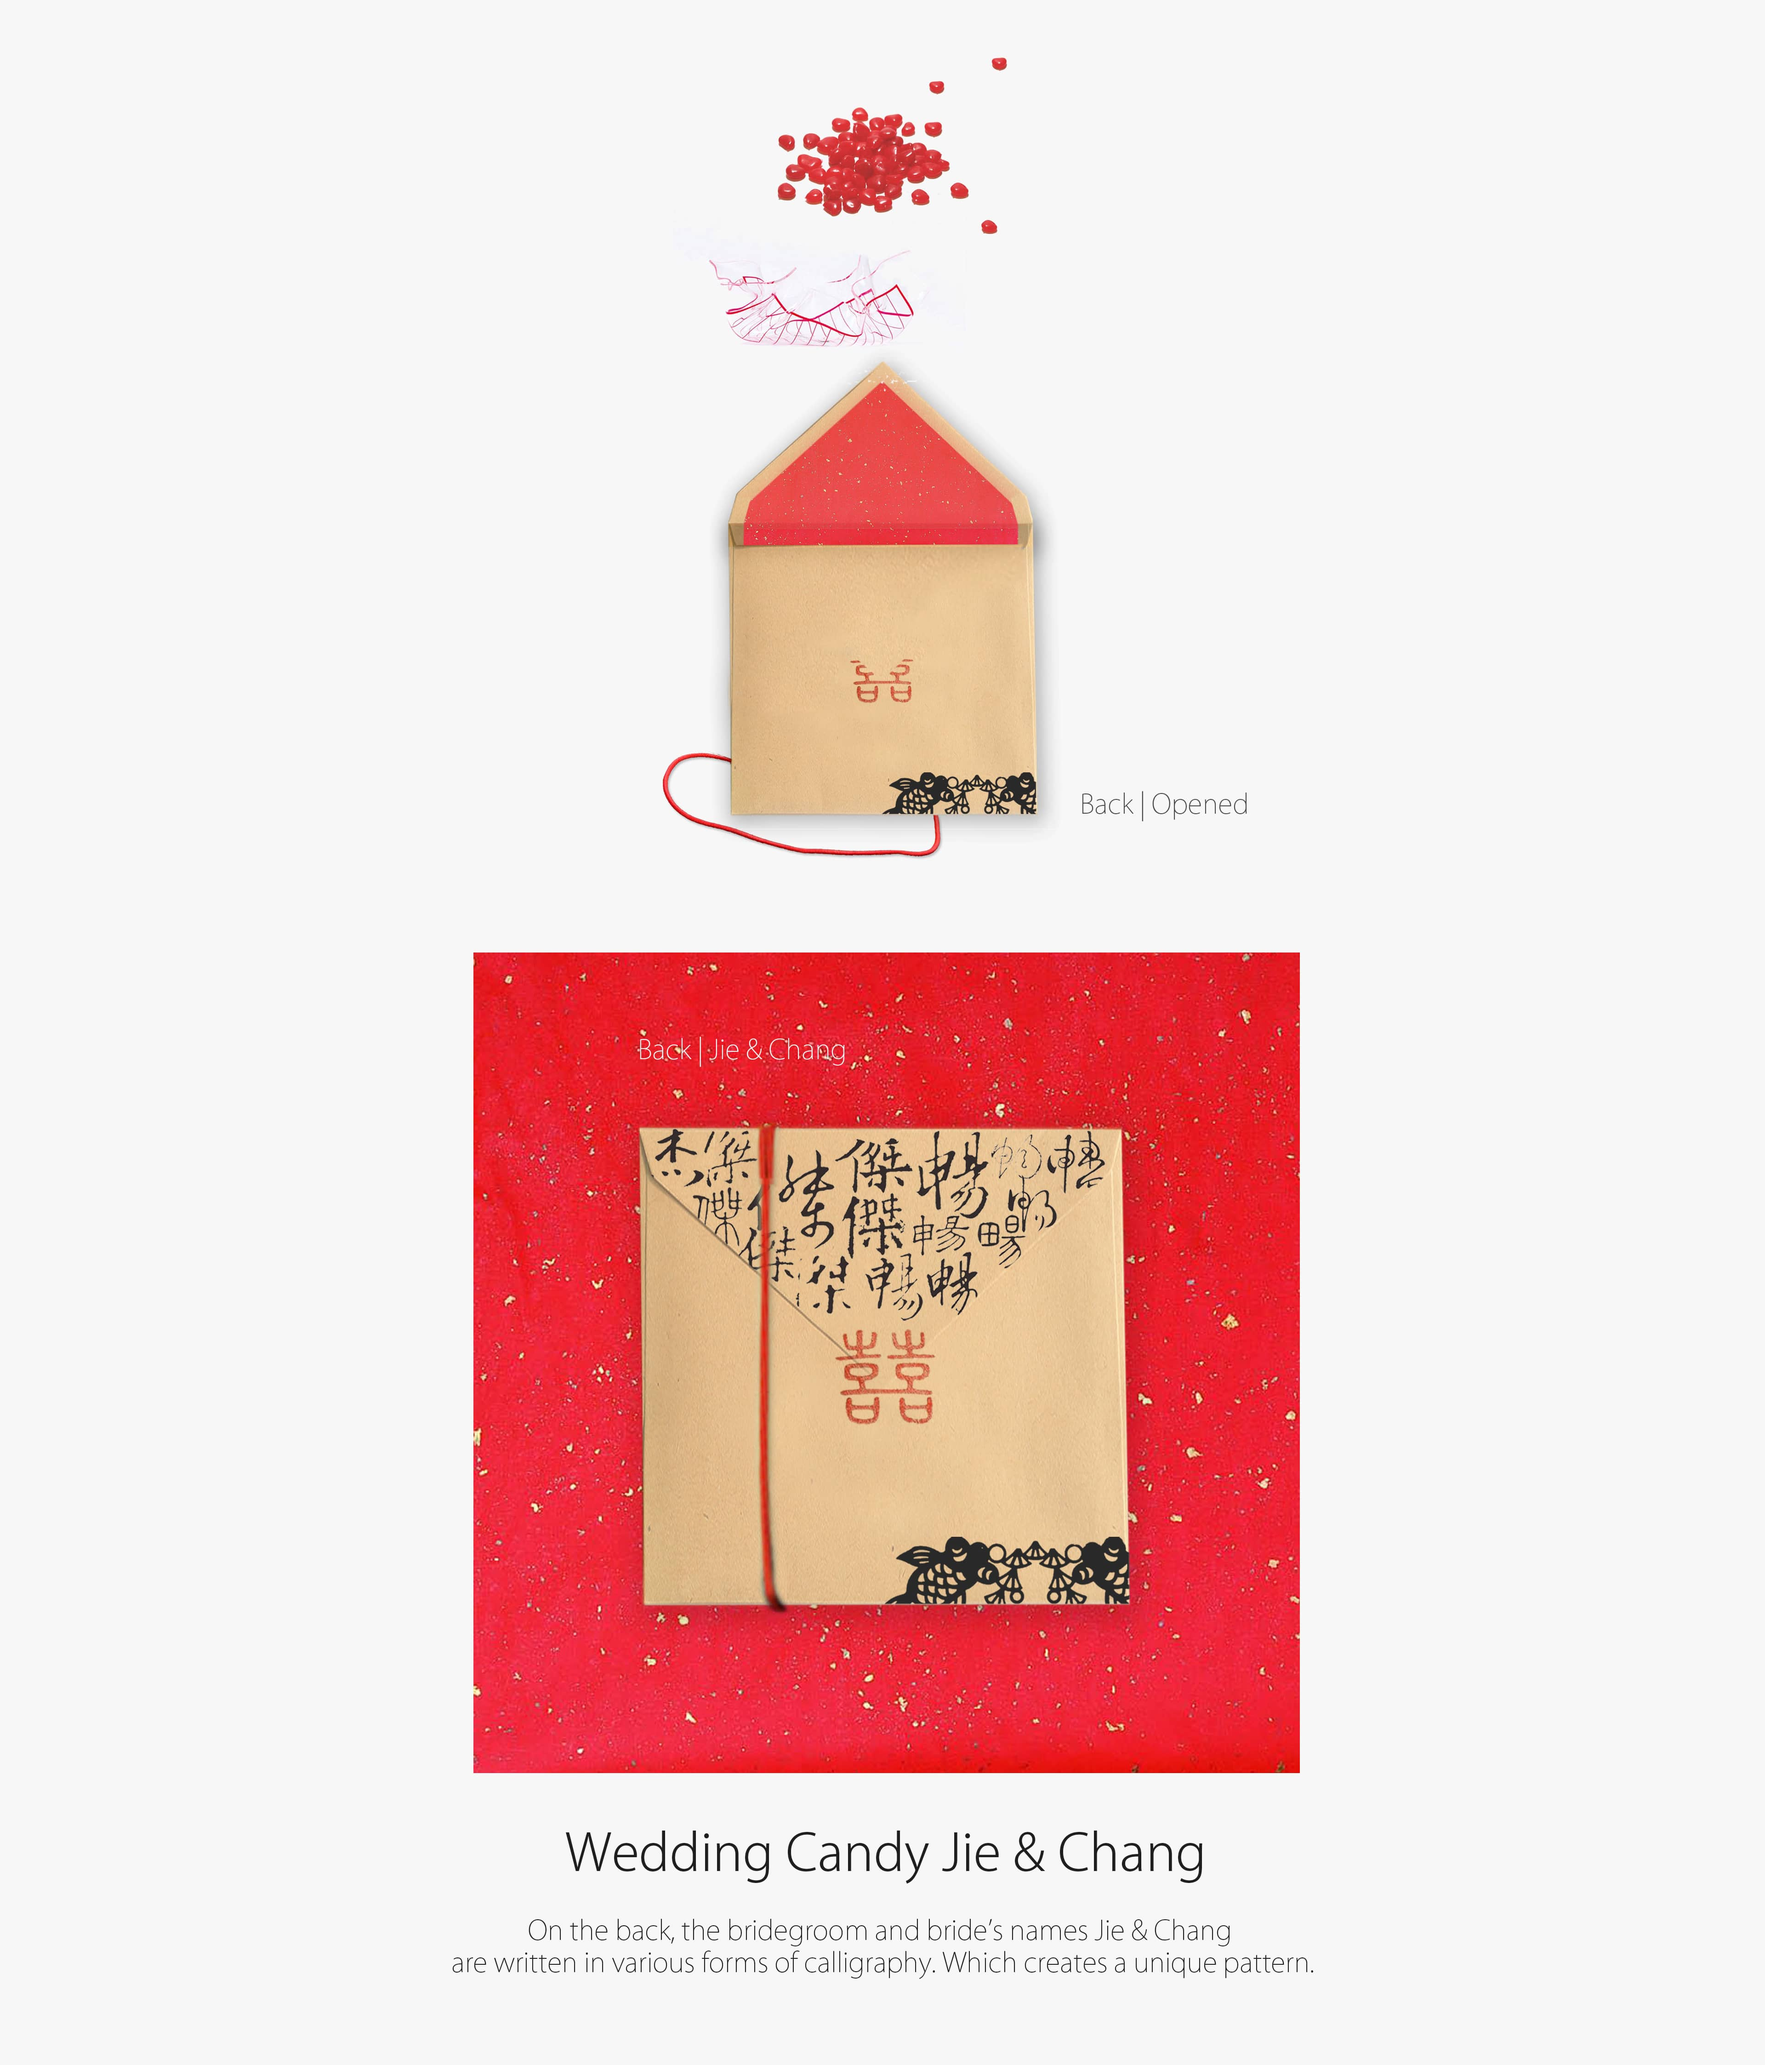
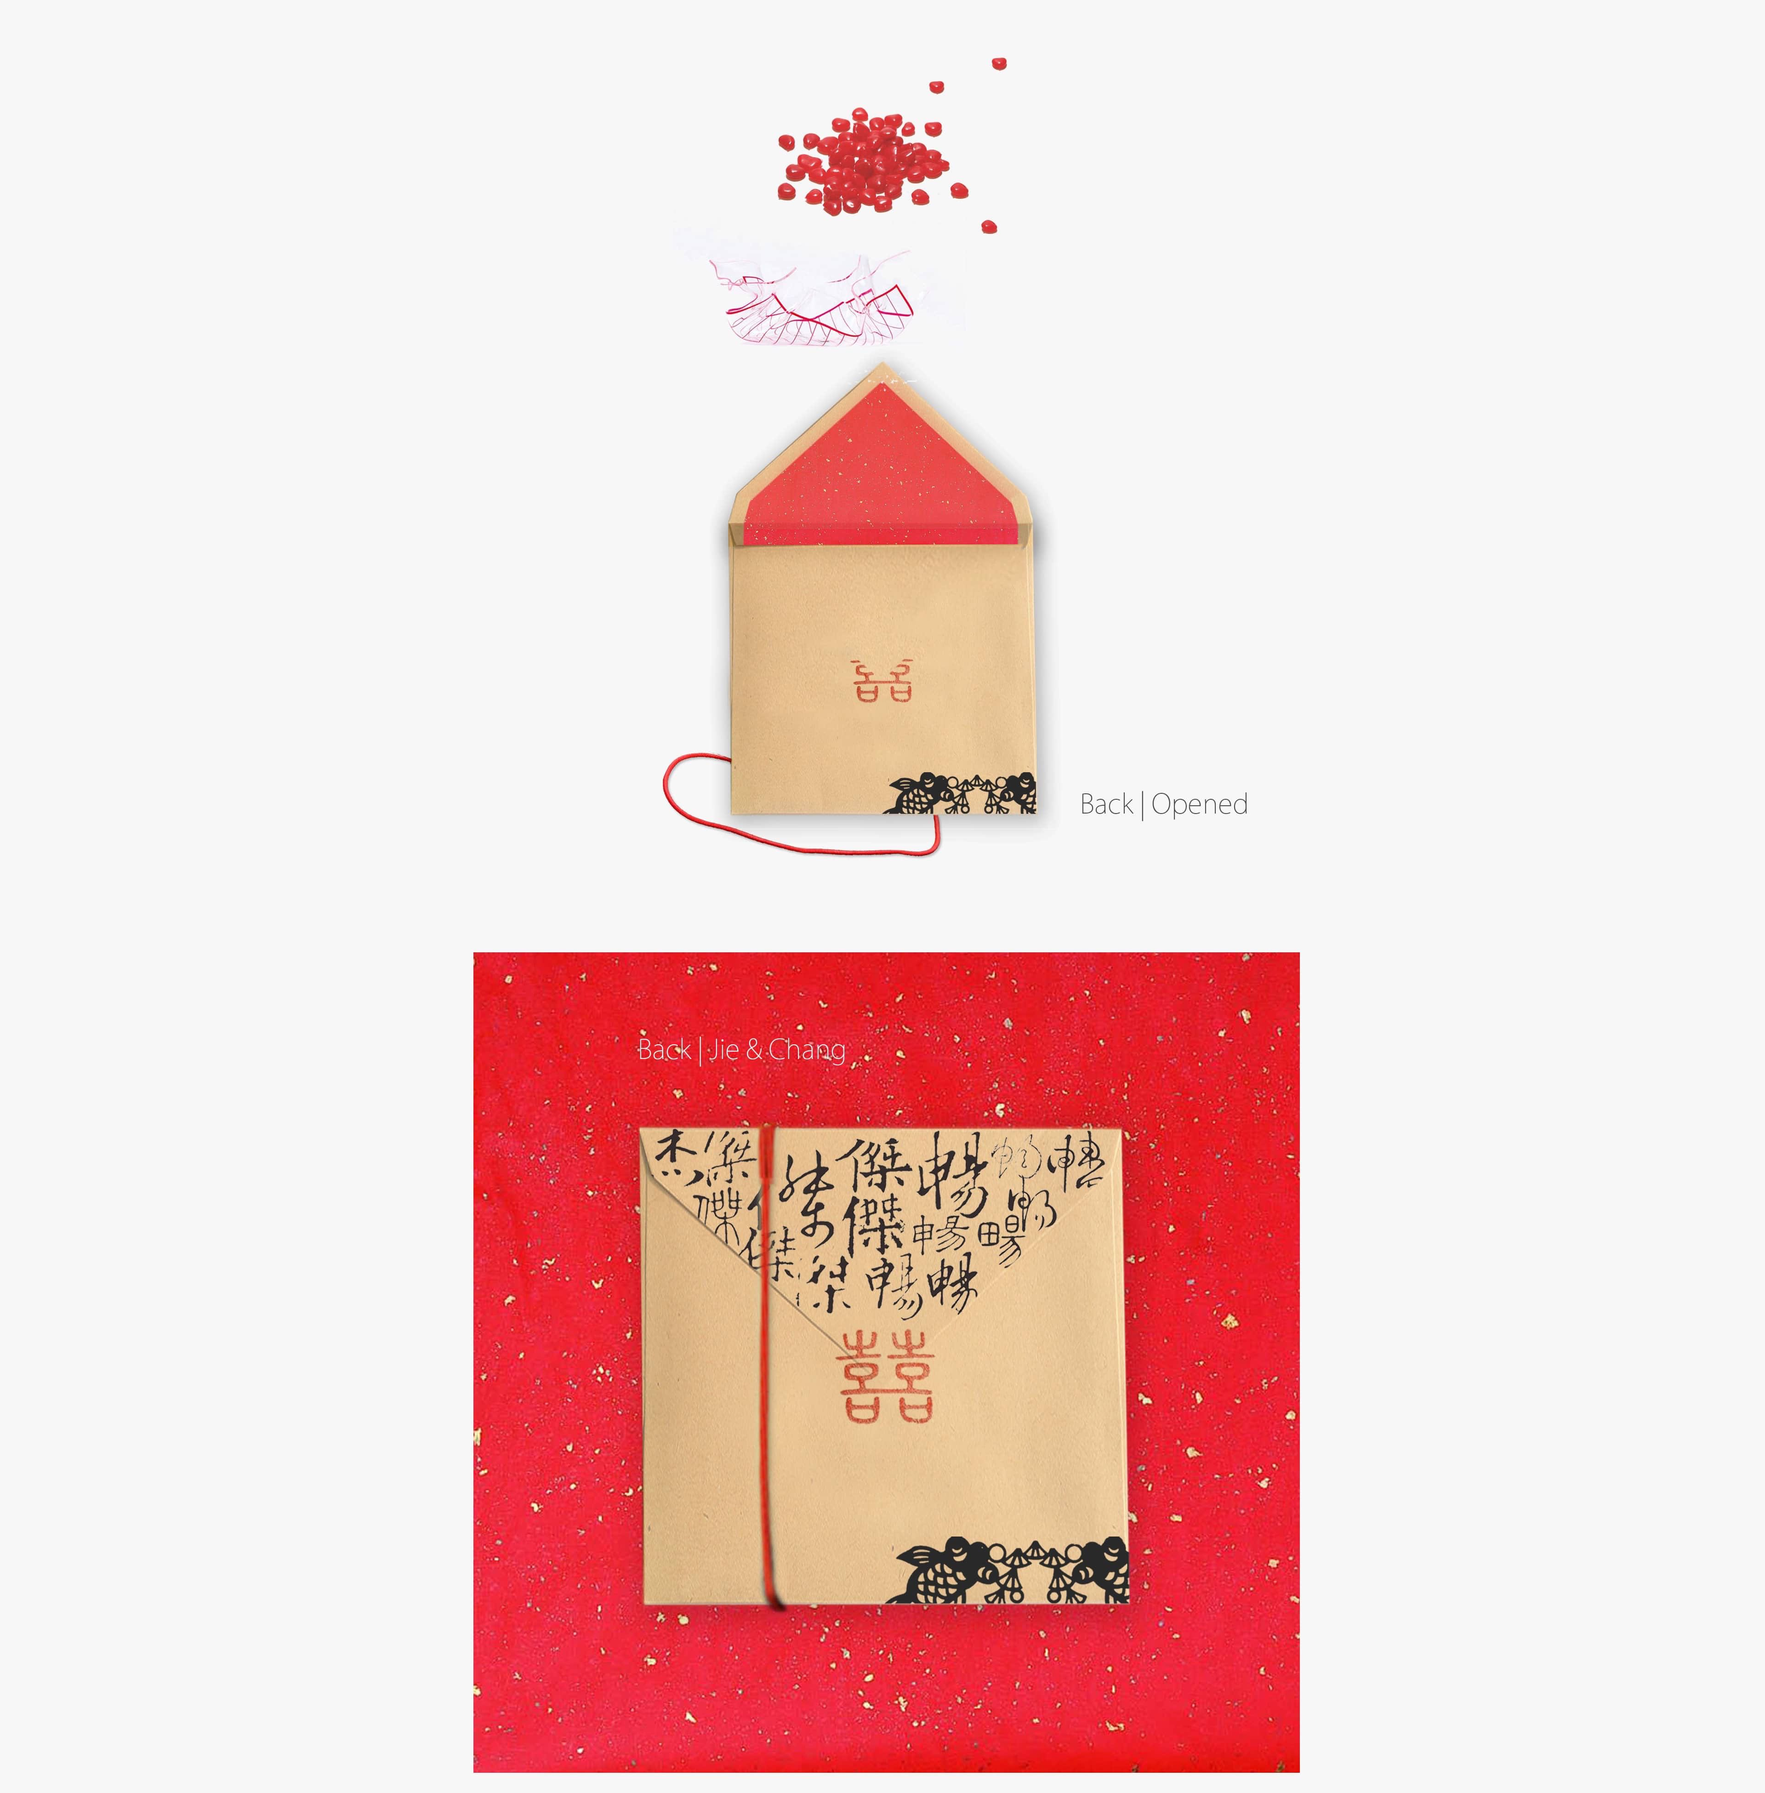
Added text for product design

Changed region(s): [[0.25, 0.3722, 0.75, 0.9926], [0.4062, 0.031, 0.5938, 0.3412]]

diff --git a/product_design.html b/product_design.html
@@ -76,14 +76,62 @@
         <!-- .......... Go Down Arrow .......... -->
         <a href="#zhuyeqing" class="go-down-arrow bounce" data-uk-smooth-scroll="{offset: 90}"></a>
         
-        
+        <!-- .......... Tea intro .......... -->
+        <div id="zhuyeqing" style="background-color:#EDEDED;color:#555">
+            <br>
+            <br>
+            <br>
+            <h1 class="uk-text-large uk-text-center font-el" style="font-size:400%;color:#555">Zhuyeqing Tea - Package Renovation</h1>
+<!--
+            <br>
+            <br>
+            <h1 class="uk-text-large uk-text-center font-el" style="font-size:200%;color:#555">Package Renovation</h1>
+            <br>
+-->
+            <br>
+            <br>
+            <div class="uk-grid"> 
+                <div class="uk-width-1-2 uk-container-center">
+                    <p class="uk-text-center uk-text-large font-el" style="font-size:120%">
+                        Zhuyeqing Tea is a type of tea that origins in Sichuan, China. It has a long history and it is widely loved by tea lovers in Sichuan.
+                        <br>
+                        <br>
+                        The challenge here is renovating the old package by giving it a fresh look. A look that is ideal for a gift to people from other areas.</p>
+                </div>
+            </div>
+            <br>
+            <br>
+        </div>
+            
         <!-- .......... tea .......... -->
         <div class="uk-slidenav-position" data-uk-slideshow>
             <ul class="uk-slideshow uk-slider-full-screen uk-grid-width-medium-1-1 uk-grid-width-large-1-1">
                 <li class="uk-active uk-vertical-align uk-text-center">
-                    <img src="image/tea.jpg" class="uk-vertical-align-center" id="zhuyeqing">
+                    <img src="image/tea.jpg" class="uk-vertical-align-center">
                 </li>
             </ul>
+        </div>
+            
+        <!-- .......... Tea proecss intro .......... -->
+        <div style="color:#555">
+            <br>
+            <br>
+            <br>
+            <h1 class="uk-text-large uk-text-center font-el" style="font-size:400%;color:#555">Zhuyeqing Tea</h1>
+            <br>
+            <br>
+            <div class="uk-grid"> 
+                <div class="uk-width-1-2 uk-container-center">
+                    <p class="uk-text-center uk-text-large font-el" style="font-size:120%">
+                        What makes Zhuyeqing Tea special is the taste as well as the look. The “standing straight up” look has been emphasized on the cover of the package. 
+                        <br>
+                        <br>
+                        To lots of foreigners, Chinese tea pots are intriguing and they come in various forms. The idea of tea bags is based on that idea. People would be willing to collect them, just like stamps.
+                    </p>
+                </div>
+            </div>
+            <br>
+            <br>
         </div>
         
         <!-- .......... tea process .......... -->
@@ -113,7 +161,7 @@
                 </li>
             </ul>
         </div>
-        
+            
         <!-- .......... wedding candy .......... -->
         <div class="uk-slidenav-position" data-uk-slideshow>
             <ul class="uk-slideshow uk-slider-full-screen uk-grid-width-medium-1-1 uk-grid-width-large-1-1">
@@ -122,6 +170,26 @@
                 </li>
             </ul>
         </div>
+            
+        <!-- .......... Wedding Candy intro .......... -->
+        <div style="background-color:#F7F7F7;color:#555">
+            <br>
+            <br>
+            <br>
+            <h1 class="uk-text-large uk-text-center font-el" style="font-size:400%;color:#555">Wedding Candy</h1>
+            <br>
+            <br>
+            <div class="uk-grid"> 
+                <div class="uk-width-1-2 uk-container-center">
+                    <p class="uk-text-center uk-text-large font-el" style="font-size:120%">
+                        This is the package design for Chinese wedding candy. It has all the Chinese traditional elements, but designed with a modern twist.
+                    </p>
+                </div>
+            </div>
+            <br>
+            <br>
+        </div>
+        
         
         <!-- .......... wedding candy detail .......... -->
         <div class="uk-slidenav-position" data-uk-slideshow>
@@ -131,12 +199,63 @@
                 </li>
             </ul>
         </div>
+            
+        <!-- .......... Wedding Candy Detail intro .......... -->
+        <div style="background-color:#F7F7F7;color:#555">
+            <br>
+            <br>
+            <br>
+            <h1 class="uk-text-large uk-text-center font-el" style="font-size:400%;color:#555">Wedding Candy Jie & Chang</h1>
+            <br>
+            <br>
+            <div class="uk-grid"> 
+                <div class="uk-width-1-2 uk-container-center">
+                    <p class="uk-text-center uk-text-large font-el" style="font-size:120%">
+                        On the back, the bridegroom and bride's names Jie & Chang are written in various forms of calligraphy. This creates a unique pattern.
+                    </p>
+                </div>
+            </div>
+            <br>
+            <br>
+        </div>
         
-        <!-- .......... 4 .......... -->
+        <!-- .......... Carpenter Hong logo .......... -->
         <div class="uk-slidenav-position" data-uk-slideshow>
             <ul class="uk-slideshow uk-slider-full-screen uk-grid-width-medium-1-1 uk-grid-width-large-1-1">
                 <li class="uk-active uk-vertical-align uk-text-center">
                     <img src="image/4_carpenter_hong.jpg" class="uk-vertical-align-center" id="weddingcandy">
+                </li>
+            </ul>
+        </div>
+            
+        <!-- .......... Carpenter Hong intro .......... -->
+        <div style="color:#555">
+            <br>
+            <br>
+            <br>
+            <h1 class="uk-text-large uk-text-center font-el" style="font-size:400%;color:#555">Carpenter Hong</h1>
+            <br>
+            <br>
+            <div class="uk-grid"> 
+                <div class="uk-width-1-2 uk-container-center">
+                    <p class="uk-text-center uk-text-large font-el" style="font-size:120%">
+                        “Carpenter Hong” is a traditional furniture manufacture company. Other than just middle-aged customers, the client wants the younger group to know more about Chinese traditional furniture.
+                        <br>
+                        <br>
+                        Changchang brings a fresh look to the branding media like business cards, paper bags, the catalogue and so on. Now it has the traditional element like “China Red” and “Calligraphy”, but at the same time, more lovable to the young group.
+
+
+                    </p>
+                </div>
+            </div>
+            <br>
+            <br>
+        </div>
+            
+        <div class="uk-slidenav-position" data-uk-slideshow>
+            <ul class="uk-slideshow uk-slider-full-screen uk-grid-width-medium-1-1 uk-grid-width-large-1-1">
+                <li class="uk-active uk-vertical-align uk-text-center">
+                    <img src="image/4_carpenter_hong_1.jpg" class="uk-vertical-align-center" id="weddingcandy">
                 </li>
             </ul>
         </div>
@@ -160,6 +279,29 @@
             </ul>
         </div>
         
+            
+        <!-- .......... Kaide intro .......... -->
+        <div style="background-color:#F1F0EE;color:#555">
+            <br>
+            <br>
+            <br>
+            <h1 class="uk-text-large uk-text-center font-el" style="font-size:400%;color:#555">CAPITAMALLS| TIANFU PLAZA</h1>
+            <br>
+            <br>
+            <div class="uk-grid"> 
+                <div class="uk-width-1-2 uk-container-center">
+                    <p class="uk-text-center uk-text-large font-el" style="font-size:120%">
+                        The client of this project is a real estate development company. The image they want to convey is “modern, edgy and neat”.
+                        <br>
+                        <br>
+                        The catalogue is clean but full of details; and the structure highly matches the style of the architecture.
+                    </p>
+                </div>
+            </div>
+            <br>
+            <br>
+        </div>
+            
         <!-- .......... 7 .......... -->
         <div class="uk-slidenav-position" data-uk-slideshow>
             <ul class="uk-slideshow uk-slider-full-screen uk-grid-width-medium-1-1 uk-grid-width-large-1-1">
@@ -178,6 +320,24 @@
             </ul>
         </div>
         
+        <!-- .......... Graduate intro .......... -->
+        <div style="background-color:#EDEDED;color:#555">
+            <br>
+            <br>
+            <br>
+            <h1 class="uk-text-large uk-text-center font-el" style="font-size:400%;color:#555">Break the Cocoon</h1>
+            <br>
+            <br>
+            <div class="uk-grid"> 
+                <div class="uk-width-1-2 uk-container-center">
+                    <p class="uk-text-center uk-text-large font-el" style="font-size:120%">
+                        This is a series of graduation celebration posters. All three are consistent in style; the font is specially designed for the theme “Breaking the Cocoon”.
+                    </p>
+                </div>
+            </div>
+            <br>
+            <br>
+        </div>
         
         <!-- .......... Graduate 1 .......... -->
             
